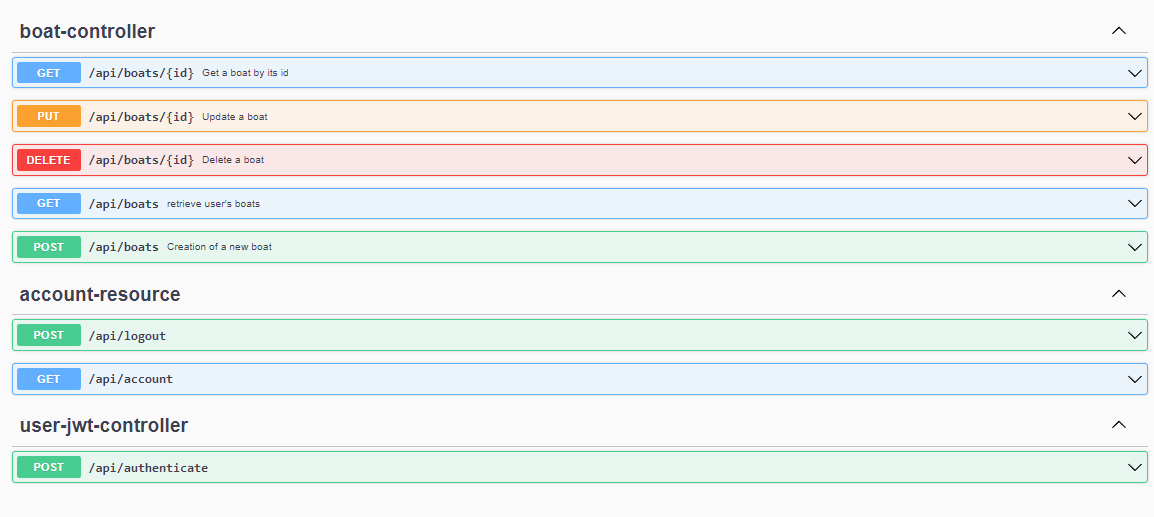
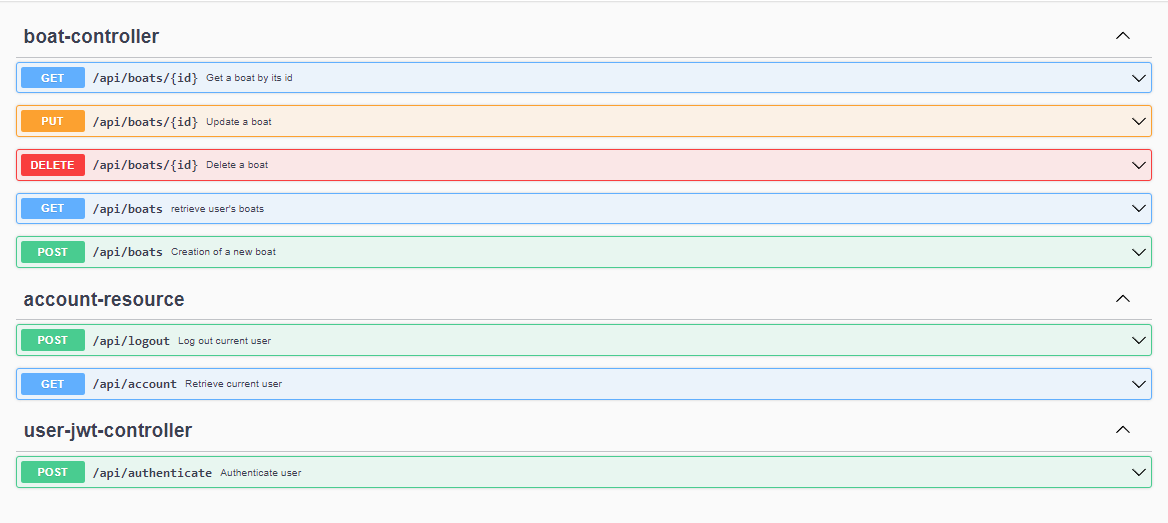
readme change

diff --git a/src/main/java/com/openweb/api/security/http/AccountResource.java b/src/main/java/com/openweb/api/security/http/AccountResource.java
@@ -7,6 +7,10 @@ import com.openweb.api.security.repository.UserRepository;
 import com.openweb.api.security.service.UserService;
 import com.openweb.api.security.util.CookieUtil;
 import io.github.resilience4j.ratelimiter.annotation.RateLimiter;
+import io.swagger.v3.oas.annotations.Operation;
+import io.swagger.v3.oas.annotations.media.Content;
+import io.swagger.v3.oas.annotations.responses.ApiResponse;
+import io.swagger.v3.oas.annotations.responses.ApiResponses;
 import lombok.extern.slf4j.Slf4j;
 import org.springframework.http.HttpHeaders;
 import org.springframework.http.HttpStatus;
@@ -50,23 +54,21 @@ public class AccountResource {
      * @return the current user.
      * @throws AccountResourceException {@code 404 } if the user couldn't be returned.
      */
+    @Operation(summary = "Retrieve current user")
+    @ApiResponses(value = {@ApiResponse(responseCode = "200", description = "The current user data", content = {@Content(mediaType = "application/json")}), @ApiResponse(responseCode = "404", description = "User could not be found", content = @Content)})
     @RateLimiter(name = "rateLimiterApi")
     @GetMapping("/account")
     public UserDTO getAccount() {
-        try {
-            UserDTO userDTO = userService.getUserWithAuthorities().map(user -> new UserDTO(user)).orElseThrow(() -> new AccountResourceException("User could not be found"));
-            return userDTO;
-        } catch (Exception e) {
-            throw e;
-        }
+        return userService.getUserWithAuthorities().map(user -> new UserDTO(user)).orElseThrow(() -> new AccountResourceException("User could not be found"));
     }
 
     /**
-     *
      * @param request
      * @param response
      * @return
      */
+    @Operation(summary = "Log out current user")
+    @ApiResponses(value = {@ApiResponse(responseCode = "200", description = "The current user has been successfully logged out", content = {@Content(mediaType = "application/json")})})
     @RateLimiter(name = "rateLimiterApi")
     @PostMapping("/logout")
     public ResponseEntity<String> logout(HttpServletRequest request, HttpServletResponse response) {

diff --git a/src/main/java/com/openweb/api/security/http/UserJWTController.java b/src/main/java/com/openweb/api/security/http/UserJWTController.java
@@ -1,12 +1,17 @@
 package com.openweb.api.security.http;
 
 
-import com.fasterxml.jackson.annotation.JsonProperty;
+import com.openweb.api.boat.dto.BoatDTO;
 import com.openweb.api.security.dto.LoginDTO;
 import com.openweb.api.security.jwt.TokenProvider;
 import com.openweb.api.security.service.UserService;
 import com.openweb.api.security.util.CookieUtil;
 import io.github.resilience4j.ratelimiter.annotation.RateLimiter;
+import io.swagger.v3.oas.annotations.Operation;
+import io.swagger.v3.oas.annotations.media.Content;
+import io.swagger.v3.oas.annotations.media.Schema;
+import io.swagger.v3.oas.annotations.responses.ApiResponse;
+import io.swagger.v3.oas.annotations.responses.ApiResponses;
 import org.springframework.http.HttpHeaders;
 import org.springframework.http.HttpStatus;
 import org.springframework.http.ResponseEntity;
@@ -42,6 +47,8 @@ public class UserJWTController {
         this.cookieUtil = cookieUtil;
     }
 
+    @Operation(summary = "Authenticate user")
+    @ApiResponses(value = {@ApiResponse(responseCode = "200", description = "The user was successfully authenticated", content = {@Content(mediaType = "application/json")}), @ApiResponse(responseCode = "400", description = "Invalid login data", content = @Content)})
     @PostMapping("/authenticate")
     @RateLimiter(name = "rateLimiterApi")
     public ResponseEntity authorize(@Valid @RequestBody LoginDTO loginDTO) {
